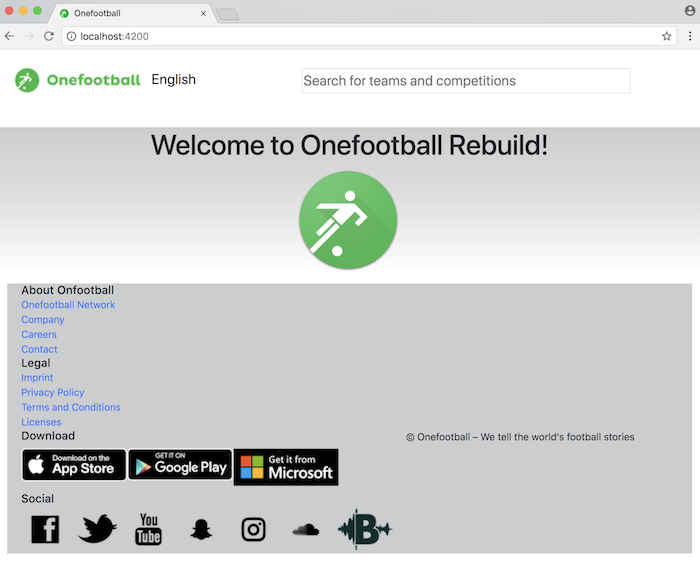
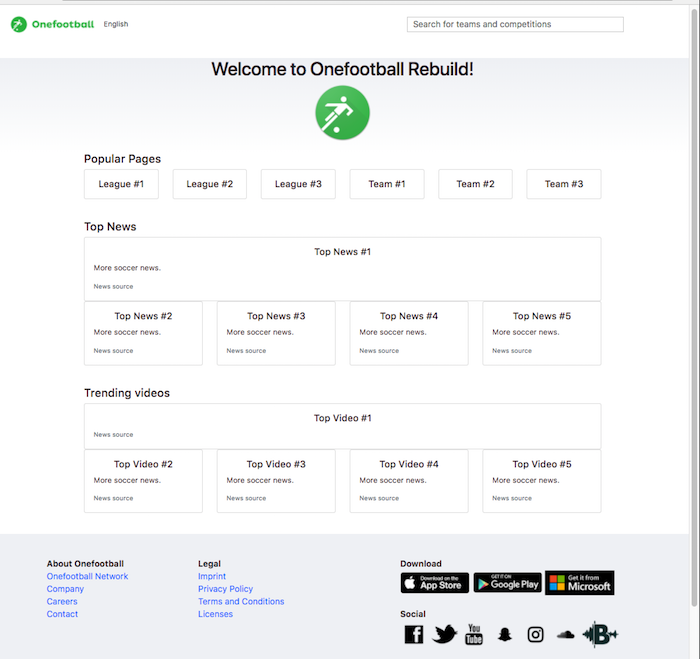
edit readme and update rebuild screenshot

diff --git a/src/app/app.component.html b/src/app/app.component.html
@@ -2,8 +2,11 @@
 
 <div class="main">
   <h1 class="main-title">Welcome to {{ title }}!</h1>
-  <img width="250" alt="Onefootball Logo" id="big-logo" src="./assets/onefootball-logo-transparent.png">
+  <img width="125" alt="Onefootball Logo" id="big-logo" src="./assets/onefootball-logo-transparent.png">
   <br>
+
 </div>
+
+<app-news></app-news>
 
 <app-footer></app-footer>

diff --git a/README.md b/README.md
@@ -11,7 +11,7 @@
 #### Bottom main page...
 <kbd><img src="./src/assets/Onefootball-sc02.png" alt="Original onefootball.com  bottom screenshot"></kbd>
 
-### Rebuild site (updated: 03/30/2018 evening)
+### Rebuild site (updated: 04/01/2018 evening)
 <kbd><img src="./src/assets/Onefootball-rebuild.png" alt="Rebuild onefootball.com screenshot"></kbd>
 
 ## Description
@@ -22,10 +22,11 @@
 
 | Spec   | Status   |
 |--------|:-------: |
-| Generate header<app-head></app-head> and footer<app-footer></app-footer> components  | Ongoing |
-| Edit header and footer styling | Ongoing |
-| Generate popular pages, news and trending soccer vides<main></main> components  | Ongoing |
-| Edit news styling | Ongoing |
+| Generate functioning header <app-app-head></app-app-head> components. | Ongoing |
+| Generate functioning news <app-news></app-news> components. | Ongoing |
+| Generate functional footer <app-footer></app-footer> components. | Completed |
+| Match Onefootball text and background styling. | Ongoing |
+| Generate functional popular pages, news and trending soccer videos links and/or API calls. | Ongoing |
 
 
 ## Technologies Used
@@ -63,7 +64,8 @@ To get more help on the Angular CLI use `ng help` or go check out the [Angular C
 
 ## Known Bugs and Issues
 * Header: Issues setting up navigator drop-down languages.
-* Footer: CSS div grid system works for Chrome desktop width greater than 1200 pixels.
+* Footer: CSS div grid system works for Chrome desktop width greater than 1200 pixels at 100% viewing.
+* News and videos: Need to link soccer articles.
 
 ### Licensed under MIT Licensed
 
